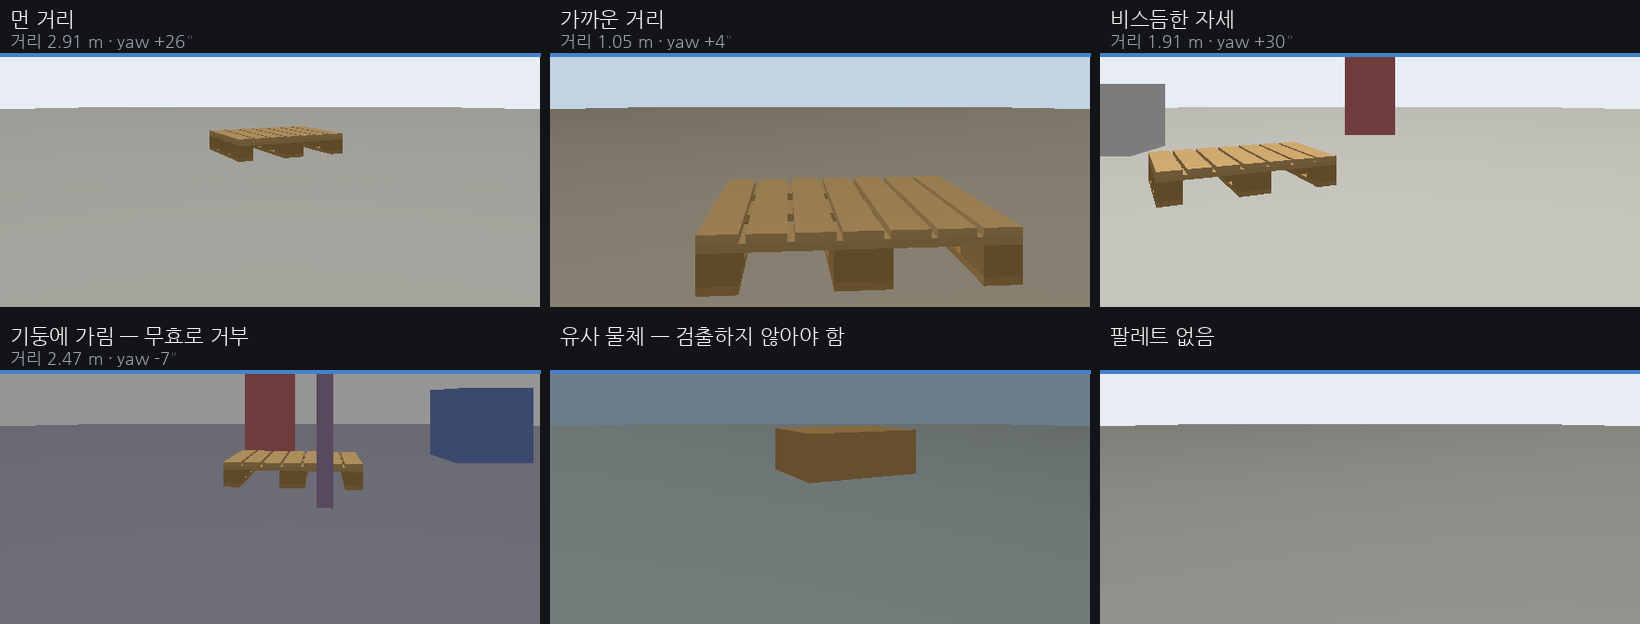
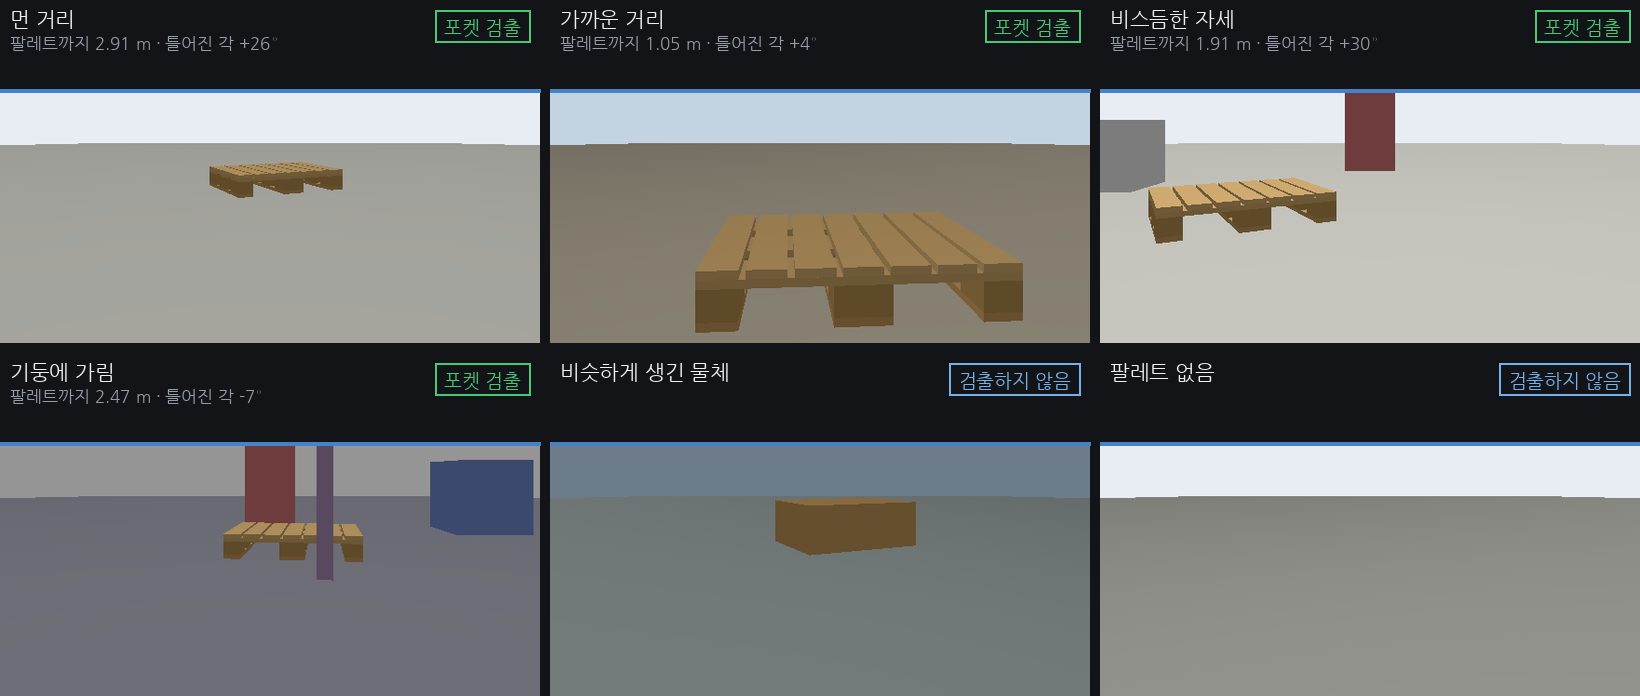
fix: make the diagrams carry their own explanation
Eight problems, all the same kind: a figure that shows a fact without showing
why it follows.

Slides 2 and 12 were pictures of boxes and arrows. They are laid out in the
page now, so the text is selectable, crisp at any projector resolution, and
editable without regenerating an image.

Slide 3 dropped the 0.10 m scan. Mounting a LiDAR below pallet height is not a
choice anyone has, so half the figure argued against an option that does not
exist. In its place is a side view: the scan plane drawn over a pallet that
sits well under it, next to the scan that returns 298 points from walls and
none from the pallet.

Slide 4's five panels had no visible link. Arrows now name what passes between
them, so the chain reads 거리 값 → 팔레트 주변 점만 → 앞면 한 장 → 빈 칸 위치.

Slide 6 replaced the scale drawing, which stated the millimetres without
showing their effect, with the scene's own measured points: the cut-off line,
the points below it greyed out, and the detector's own count of what survives
(64 against a threshold of 100, or 122 against 15).

Slide 7 now names what actually differs between the two runs -- three
thresholds and their before/after values -- so "one works and one does not" has
a cause on the slide.

Slide 9 labelled the conditions but not the outcome; each panel now carries
what the detector decided for that scene.

Slides 5 and 6 lost the spec lines that repeated numbers already in the figure,
which lets the figures grow.
[…]

diff --git a/week-03/index.html b/week-03/index.html
@@ -3,7 +3,7 @@
 <link rel="icon" href="data:,">
 <script src="vendor/react.production.min.js"></script><script src="vendor/react-dom.production.min.js"></script><script src="./support.js"></script></head>
 <body><x-dc><helmet><meta name="viewport" content="width=device-width, initial-scale=1"><title>3주차 개발 진행 보고</title>
-<link rel="stylesheet" href="vendor/uos-slide-template/fonts/fonts.css"><link rel="stylesheet" href="vendor/uos-slide-template/_ds_bundle.css"><link rel="stylesheet" href="vendor/uos-slide-template/styles.css"><link rel="stylesheet" href="deck.css?v=f74bf209c237"><script src="vendor/uos-slide-template/_ds_bundle.js"></script></helmet>
+<link rel="stylesheet" href="vendor/uos-slide-template/fonts/fonts.css"><link rel="stylesheet" href="vendor/uos-slide-template/_ds_bundle.css"><link rel="stylesheet" href="vendor/uos-slide-template/styles.css"><link rel="stylesheet" href="deck.css?v=1bfb95624899"><script src="vendor/uos-slide-template/_ds_bundle.js"></script></helmet>
 <x-import component-from-global-scope="deck-stage" from="./deck-stage.js" width="1280" height="720" hint-size="100%,100%">
 <section data-label="개발 진행 보고" data-screen-label="01" data-duration="20" data-speaker-notes="권장 20초
 
@@ -19,21 +19,22 @@ EPAL 6 캡처와 평가: docs/validation/2026-09-14-epal6-capture-and-evaluation
 
 <section data-label="개발 진행 현황" data-screen-label="02" data-duration="40" data-speaker-notes="권장 40초
 
-과제의 다섯 단계 중 1단계 팔레트 인식과 2단계 로봇 기준 좌표 변환을 구현하였다. 좌표 변환은 카메라에서 찾은 포켓이 로봇의 어느 방향에 얼마나 떨어져 있는지 계산하는 과정이다. 그림의 base는 이 로봇 기준을 뜻한다. 3단계 이후의 실제 차체 동작에는 방향 전환 특성과 정지 거리가 필요하므로 차체 입고 후 착수한다. 입고 전에는 포켓의 위치를 계속 이어서 추정하는 기능을 우선 개발한다. 이번 보고에서는 인식 결과와 측정 과정에서 확인한 센서 설치 조건을 설명한다.
+과제는 팔레트를 찾는 일부터 목적지에 내려놓는 일까지를 다섯 단계로 제시한다. 이번 주까지 1단계 팔레트 인식과 2단계 좌표 계산을 구현하였다. 2단계는 카메라가 찾은 구멍이 로봇 기준으로 어느 방향에 얼마나 떨어져 있는지 계산하는 일이다. 3단계부터는 실제 차체가 얼마나 돌 수 있고 얼마 만에 서는지를 알아야 하므로 차체를 받기 전에는 착수하지 않는다. 차체를 기다리는 동안 먼저 할 수 있는 일을 한 것이다. 따라서 이번 보고는 인식 성능과, 인식을 측정하면서 확인한 장비 조건으로 구성한다.
 
 [Sources]
 과제 원문 7쪽의 다섯 단계: https://docs.google.com/presentation/d/1BjoJLWmwd07ZJujZp4BPZrwBhx5tsnfmBpWdLMy2YrQ/edit
 개발 로드맵: docs/plans/2026-09-11-development-roadmap.md
 [/Sources]" style="background:#fff">
 <x-import component-from-global-scope="UOSSlideDS.ContentSlide" hint-size="100%,100%" title="01  개발 진행 현황"><div class="slide-body">
-<figure class="shot wide"><img class="media" src="assets/16_pipeline_status.png" alt="다섯 단계 진행 상태: 1·2단계 완료, 4단계 다음 주, 3·5단계 차체 대기"><figcaption class="small muted">과제의 다섯 단계와 이번 주 구현 범위</figcaption></figure>
-<div class="takeaway">수행 범위: 1·2단계 인식·위치 계산 구현 · 3단계 이후 실제 차체 동작은 입고 후 착수</div>
+<h2 class="headline">과제가 제시한 다섯 단계 중 앞의 두 단계를 완료</h2>
+<div class="pipeline grow"><article class="pipeline-step done"><h3>① 팔레트 인식</h3><p>RGB-D 카메라로 포크를 넣을 구멍을 찾는다</p><p class="state">구현·평가 완료</p></article><article class="pipeline-step done"><h3>② 로봇 기준 좌표</h3><p>찾은 구멍의 방향과 거리를 로봇 기준으로 계산</p><p class="state">구현 완료</p></article><article class="pipeline-step wait"><h3>③ 접근 경로</h3><p>장애물을 피해 팔레트 앞까지 가는 경로</p><p class="state">차체 입고 후</p></article><article class="pipeline-step now"><h3>④ 추적·삽입</h3><p>가까이서 관측을 이어가며 포크를 넣는다</p><p class="state">다음 주 착수</p></article><article class="pipeline-step wait"><h3>⑤ 이송·하역</h3><p>목적지로 옮기고 내려놓는다</p><p class="state">이후</p></article></div>
+<div class="takeaway">수행 범위: 1·2단계 구현 완료 · 3단계 이후는 차체를 받은 뒤에 착수</div>
 <div class="foot"><span>출처: 과제 설명자료 7쪽</span><span>02 / 12</span></div></div></x-import>
 </section>
 
 <section data-label="2D LiDAR 관측 범위" data-screen-label="03" data-duration="55" data-speaker-notes="권장 55초
 
-먼저 가상 실험 환경인 Gazebo에서 센서 자료를 받는 기능을 확인하였다. 컬러 영상인 RGB와 물체까지의 거리인 깊이, 2D LiDAR 거리 측정값을 로봇 프로그램 연결 도구인 ROS 2로 32초 동안 161회 수신하였다. 기록을 재생한 값도 같았다. 2D LiDAR는 같은 높이에서 빛을 쏘아 주변 거리를 재는 센서이다. 팔레트 높이는 144 밀리미터이고 제작 예정 규격은 90 밀리미터로, 센서가 재는 높이보다 낮다. 그림은 센서 높이만 바꾸어 360도 방향에서 빛이 닿는 지점을 계산한 결과이다. 설치 조건인 0.5 미터 높이에서는 벽·기둥·상자의 반사 지점이 298점이고 팔레트의 반사 지점은 0점이었다. 원인 확인용인 0.1 미터 높이에서는 팔레트의 반사 지점이 53점이었다. 실제로는 벽·장애물을 재기 위해 팔레트보다 높게 설치하므로, 팔레트 인식은 영상과 거리를 함께 제공하는 RGB-D 카메라가 맡는다. LiDAR를 이용한 지도 작성과 로봇 위치 추정은 아직 구현하지 않았다. 바퀴 회전으로 이동 거리와 방향을 계산하는 오도메트리와 실제 주행이 필요하여 차체 입고 후 수행한다.
+먼저 가상 실험 환경인 Gazebo에서 센서 자료를 받는 기능을 확인하였다. 컬러 영상인 RGB와 물체까지의 거리인 깊이, 2D LiDAR 거리 측정값을 로봇 프로그램 연결 도구인 ROS 2로 32초 동안 161회 수신하였다. 기록을 저장한 뒤 다시 재생하여 같은 값이 나오는 것까지 확인하였다. 다만 2D LiDAR로는 팔레트를 찾을 수 없다. 이 센서는 설치한 높이에서 수평으로 한 겹만 훑는다. 왼쪽 그림의 하늘색 면이 그 관측 평면이며, 높이 0.5미터에 설치한 경우이다. 팔레트는 전체 높이가 144밀리미터, 제작 예정인 것은 90밀리미터여서 그 면보다 훨씬 낮게 놓인다. 오른쪽은 같은 조건에서 사방으로 빛을 쏘아 되돌아온 지점을 위에서 본 것이다. 벽과 기둥, 상자에서는 298개가 되돌아오는데 팔레트에서는 한 개도 되돌아오지 않는다. 센서를 팔레트보다 낮게 다는 방법은 고려하지 않는다. 2D LiDAR는 벽과 장애물을 보고 지도를 만들기 위한 센서여서 팔레트보다 높게 설치하는 것이 당연한 조건이고, 팔레트가 관측 평면 아래 놓이는 것은 그 결과이다. 따라서 역할을 나눈다. 2D LiDAR는 지도 작성과 장애물 판단에, 팔레트와 포켓은 RGB-D 카메라에 맡긴다. 다음 장이 그 카메라 인식이다. 지도 작성과 로봇 위치 추정은 바퀴 회전으로 이동 거리를 재는 기능과 실제 주행이 있어야 하므로 차체를 받은 뒤의 단계이다.
 
 [Sources]
 센서 기준선 — 실시간 161회 / 32.0초, 기록 재생 일치: docs/validation/2026-09-10-gazebo-sensor-baseline.md
@@ -41,8 +42,8 @@ SLAM·위치 추정은 M4, 차체 입고 후: docs/plans/2026-09-11-development-
 [/Sources]" style="background:#fff">
 <x-import component-from-global-scope="UOSSlideDS.ContentSlide" hint-size="100%,100%" title="02  2D LiDAR 관측 범위"><div class="slide-body">
 <h2 class="headline">센서 측정 높이 아래에 놓인 팔레트</h2>
-<figure class="shot wide"><img class="media" src="assets/21_lidar_plane.png" alt="실제 설치 조건 0.50 m에서 팔레트 반사 0점, 대조 조건 0.10 m에서 53점"><figcaption class="small muted">설치 높이만 바꾸어 360° 방향의 반사 지점 계산 · MuJoCo</figcaption></figure>
-<p class="small muted">센서 높이 0.10 m는 원인 확인용 · 벽·장애물 측정을 위해 팔레트보다 높게 설치 · 지도 작성·로봇 위치 추정(SLAM)은 미구현</p>
+<figure class="shot wide"><img class="media" src="assets/21_lidar_plane.png" alt="옆에서 본 관측 평면과 그 높이에서 360도 방향의 반사 지점. 팔레트 반사는 0개"><figcaption class="small muted">설치 높이 0.50 m · 360° 방향의 반사 지점 계산 · MuJoCo</figcaption></figure>
+<p class="small muted">2D LiDAR는 벽·장애물을 보기 위한 센서여서 팔레트보다 높게 설치한다 · 지도 작성·로봇 위치 추정(SLAM)은 미구현</p>
 <div class="takeaway">역할 구분: 2D LiDAR는 벽·장애물 거리 측정 · RGB-D 카메라는 영상·거리로 포켓 인식</div>
 <div class="foot"><span>지도 작성·로봇 위치 추정(SLAM) 미구현</span><span>03 / 12</span></div></div></x-import>
 </section>
@@ -71,7 +72,6 @@ SLAM·위치 추정은 M4, 차체 입고 후: docs/plans/2026-09-11-development-
 <x-import component-from-global-scope="UOSSlideDS.ContentSlide" hint-size="100%,100%" title="04  시험용 팔레트 선정"><div class="slide-body">
 <h2 class="headline">적재 한도 10 kg에 맞춘 시험용 팔레트 선정</h2>
 <figure class="shot wide"><img class="media" src="assets/15_pallet_choice.png" alt="포크를 넣은 채로 EPAL 6과 T11 곱하기 0.6을 나란히 비교"><figcaption class="small muted">포크 삽입 상태 · 잠정 차체 모델 (MuJoCo)</figcaption></figure>
-<div class="rule body">국내 유통 규격의 짧은 변 최소 740 mm · EPAL 6 자체 무게 9~10 kg · 포크 길이 420 mm</div>
 <div class="takeaway">선정 결과: T11 각 치수를 0.6배로 축소 · 가로 × 세로 × 높이 660 × 660 × 90 mm 제작 예정</div>
 <div class="foot"><span>출처: ADR 0002</span><span>05 / 12</span></div></div></x-import>
 </section>
@@ -86,8 +86,7 @@ SLAM·위치 추정은 M4, 차체 입고 후: docs/plans/2026-09-11-development-
 [/Sources]" style="background:#fff">
 <x-import component-from-global-scope="UOSSlideDS.ContentSlide" hint-size="100%,100%" title="05  초기 설정의 한계"><div class="slide-body">
 <h2 class="headline">바닥 부근 측정점 제거에 따른 팔레트 인식 실패</h2>
-<figure class="shot wide"><img class="media" src="assets/18_floor_cut.png" alt="고정값 20 mm 절단선이 두 형상의 바닥판을 지우는 단면도"><figcaption class="small muted">팔레트 아래쪽 단면 · 실제 높이 비율 반영 · 적색은 바닥에서 20 mm까지 제거한 구간</figcaption></figure>
-<div class="rule body">바닥에서 20 mm까지 측정점 제거 · 팔레트 바닥판 두께 22 mm·15 mm로 인식에 필요한 부분도 제거</div>
+<figure class="shot wide"><img class="media" src="assets/22_points_lost.png" alt="같은 촬영 장면의 측정점을 옆에서 본 모습. 왼쪽은 바닥판 점이 사라지고 오른쪽은 남는다"><figcaption class="small muted">같은 장면의 측정점을 옆에서 본 모습 · 회색이 버려진 점</figcaption></figure>
 <div class="takeaway">결과: 실물 규격 모델의 시험 자세 125개 중 12개 검출 · 정면에서는 시험한 모든 거리에서 미검출</div>
 <div class="foot"><span>출처: 측정 기록 2026-09-14</span><span>06 / 12</span></div></div></x-import>
 </section>
@@ -103,7 +102,7 @@ SLAM·위치 추정은 M4, 차체 입고 후: docs/plans/2026-09-11-development-
 <x-import component-from-global-scope="UOSSlideDS.ContentSlide" hint-size="100%,100%" title="06  기준값 산출 방식"><div class="slide-body">
 <h2 class="headline">팔레트 치수에 따른 인식 기준값 계산</h2>
 <figure class="shot wide"><video class="media" src="assets/04_frozen_vs_derived.mp4" autoplay loop muted playsinline aria-label="같은 주행을 종전 고정값과 규격 기반 산출값으로 나란히 재생"></video><figcaption class="small muted">측정 리그 · 동일 주행 183 프레임 중 좌측 고정값은 미검출 · 우측 계산값은 150 프레임 검출 · 하단 띠는 영상 한 장씩의 검출 여부</figcaption></figure>
-<div class="rule body">길이 기준은 팔레트 축소 비율 적용 · 측정점 개수 기준은 면적에 맞추어 축소 비율의 제곱 적용</div>
+<div class="rule body">두 설정의 차이 · 바닥 제거 높이 <b>20 mm → 7.3 mm</b> · 면으로 인정할 두께 <b>20 mm → 7.8 mm</b> · 구멍으로 인정할 최소 측정점 <b>100 → 15</b><br>길이 기준은 팔레트가 작아진 비율만큼, 측정점 개수 기준은 넓이에 해당하므로 그 비율의 제곱만큼 줄인 값이다</div>
 <div class="takeaway">효과: 치수 입력으로 표준·축소 규격에 적용 · 축소 T11 시험 자세 60개 중 검출 16개 → 59개</div>
 <div class="foot"><span>화면 생성: 측정 리그 · 물체까지의 거리 계산 도구</span><span>07 / 12</span></div></div></x-import>
 </section>
@@ -178,14 +177,15 @@ M2 합성 탐색 목표: docs/plans/2026-09-11-development-roadmap.md
 
 <section data-label="향후 추진 계획" data-screen-label="12" data-duration="40" data-speaker-notes="권장 40초
 
-다음 주에는 가상 장면으로 포켓 위치 추적을 개발한다. 그림의 M과 H 표시는 개발 단계 이름이며, H는 실제 차체와 센서를 확인하는 단계이다. 영상이 바뀌어도 같은 좌우 포켓을 이어서 찾고, 가림이나 자료 전달 지연으로 새 위치를 확인하지 못하면 포크 삽입을 허용하지 않도록 동작을 검증한다. 카메라 높이는 차체를 실제로 측정한 뒤 확정하고, 그 높이에 맞추어 가상 장면을 다시 만든다. 차체 입고 후에는 시험용 팔레트를 제작하고 실제 센서로 같은 항목을 측정한다. 지도 작성과 주행은 그다음 단계이다. 이번 인식 시험에는 센서 측정값이 불규칙하게 흔들리는 현상을 넣지 않았으므로, 실제 센서에서 결과를 다시 확인해야 한다.
+다음 주에는 차체 없이 할 수 있는 포켓 추적을 진행한다. 카메라가 매 순간 새로 찾는 대신 앞에서 본 위치를 이어서 유지하는 기능이며, 가림이나 지연으로 관측이 끊겼을 때 삽입을 중단하는 동작까지 확인한다. 카메라 높이는 차체를 실측한 뒤 확정하고, 그 높이에 맞추어 장면을 다시 만들어 촬영한다. 차체를 받으면 시험용 팔레트를 제작하고 실제 센서로 같은 항목을 다시 측정한다. 지도 작성과 주행은 그 다음 단계이다. 이번 자료의 수치는 모두 센서의 흔들림을 넣지 않은 조건에서 나온 값이므로 실제 센서로 재확인이 필요하다.
 
 [Sources]
 로드맵 M3 이후와 H 경로: docs/plans/2026-09-11-development-roadmap.md
 [/Sources]" style="background:#fff">
 <x-import component-from-global-scope="UOSSlideDS.ContentSlide" hint-size="100%,100%" title="11  향후 추진 계획"><div class="slide-body">
-<figure class="shot wide"><img class="media" src="assets/19_roadmap.png" alt="M1과 M2는 완료, M3 진행, H0부터 H2는 차체 입고 대기"><figcaption class="small muted">단계별 개발 일정과 현재 진행 상태</figcaption></figure>
-<div class="takeaway">검증 조건: 센서 측정값의 흔들림을 넣지 않은 인식 시험 · 실제 센서로 재측정 필요</div>
+<h2 class="headline">다음 주는 포켓 추적, 그 다음은 차체 실측</h2>
+<div class="roadmap grow"><article class="done"><h3>M1 · M2</h3><p>개발 환경 정비와 포켓 인식</p><p class="state">완료 · 가상 장면 기준</p></article><article class="now"><h3>M3</h3><p>포켓 추적 — 가까이서 관측 이어가기</p><p class="state">다음 주</p></article><article class="wait"><h3>차체 입고</h3><p>실측 · 팔레트 제작 · 실제 센서로 재측정</p><p class="state">대기</p></article><article class="wait"><h3>M4 ~ M6</h3><p>지도 작성 · 주행 · 삽입 · 이송</p><p class="state">이후</p></article></div>
+<div class="takeaway">유의 사항: 이번 수치는 센서 흔들림을 넣지 않은 조건의 값 · 실제 센서로 다시 측정한다</div>
 <div class="foot"><span>출처: 개발 로드맵</span><span>12 / 12</span></div></div></x-import>
 </section>
 </x-import></x-dc></body></html>

diff --git a/week-03/deck.css b/week-03/deck.css
@@ -102,3 +102,16 @@ a:focus-visible { outline:3px solid var(--uos-blue); outline-offset:4px; }
   flex:0 1 auto; display:block; object-fit:contain; border:1px solid var(--uos-rule); }
 .shot figcaption { flex-shrink:0; text-align:center; }
 .split > .shot { height:100%; }
+
+/* Week 3: the progress bar and the roadmap are laid out in the page rather
+   than baked into an image, so they stay crisp and stay editable. */
+.pipeline.grow, .roadmap.grow { align-content:center; }
+.pipeline-step .state, .roadmap .state { font-size:20.5px; margin-top:10px; font-weight:700; }
+.pipeline-step.done, .roadmap article.done { border-top-color:var(--uos-blue); }
+.pipeline-step.now, .roadmap article.now { border-top-color:#E0A100; }
+.pipeline-step.wait, .roadmap article.wait { border-top-color:var(--uos-rule); }
+.pipeline-step.done .state, .roadmap article.done .state { color:var(--uos-blue); }
+.pipeline-step.now .state, .roadmap article.now .state { color:#A97A00; }
+.pipeline-step.wait, .roadmap article.wait { color:var(--uos-ink-muted); }
+.roadmap article h3 { margin:12px 0 10px; }
+.roadmap article p { font-size:21px; }

diff --git a/week-03/build_deck.py b/week-03/build_deck.py
@@ -44,21 +44,22 @@ add('개발 진행 보고', '3주차\n개발 진행 보고', 20, '',
     [(M2, 'M2 포켓 인식 검증 기록'), (E6, 'EPAL 6 캡처와 평가')], '측정 결과 보고')
 
 # ----------------------------------------------------------------- 2
-add('개발 진행 현황', '01  개발 진행 현황', 40, f"""
-{figure('16_pipeline_status.png', '다섯 단계 진행 상태: 1·2단계 완료, 4단계 다음 주, 3·5단계 차체 대기', '과제의 다섯 단계와 이번 주 구현 범위')}
-<div class="takeaway">수행 범위: 1·2단계 인식·위치 계산 구현 · 3단계 이후 실제 차체 동작은 입고 후 착수</div>
+add('개발 진행 현황', '01  개발 진행 현황', 40, """
+<h2 class="headline">과제가 제시한 다섯 단계 중 앞의 두 단계를 완료</h2>
+<div class="pipeline grow"><article class="pipeline-step done"><h3>① 팔레트 인식</h3><p>RGB-D 카메라로 포크를 넣을 구멍을 찾는다</p><p class="state">구현·평가 완료</p></article><article class="pipeline-step done"><h3>② 로봇 기준 좌표</h3><p>찾은 구멍의 방향과 거리를 로봇 기준으로 계산</p><p class="state">구현 완료</p></article><article class="pipeline-step wait"><h3>③ 접근 경로</h3><p>장애물을 피해 팔레트 앞까지 가는 경로</p><p class="state">차체 입고 후</p></article><article class="pipeline-step now"><h3>④ 추적·삽입</h3><p>가까이서 관측을 이어가며 포크를 넣는다</p><p class="state">다음 주 착수</p></article><article class="pipeline-step wait"><h3>⑤ 이송·하역</h3><p>목적지로 옮기고 내려놓는다</p><p class="state">이후</p></article></div>
+<div class="takeaway">수행 범위: 1·2단계 구현 완료 · 3단계 이후는 차체를 받은 뒤에 착수</div>
 """,
-    """과제의 다섯 단계 중 1단계 팔레트 인식과 2단계 로봇 기준 좌표 변환을 구현하였다. 좌표 변환은 카메라에서 찾은 포켓이 로봇의 어느 방향에 얼마나 떨어져 있는지 계산하는 과정이다. 그림의 base는 이 로봇 기준을 뜻한다. 3단계 이후의 실제 차체 동작에는 방향 전환 특성과 정지 거리가 필요하므로 차체 입고 후 착수한다. 입고 전에는 포켓의 위치를 계속 이어서 추정하는 기능을 우선 개발한다. 이번 보고에서는 인식 결과와 측정 과정에서 확인한 센서 설치 조건을 설명한다.""",
+    """과제는 팔레트를 찾는 일부터 목적지에 내려놓는 일까지를 다섯 단계로 제시한다. 이번 주까지 1단계 팔레트 인식과 2단계 좌표 계산을 구현하였다. 2단계는 카메라가 찾은 구멍이 로봇 기준으로 어느 방향에 얼마나 떨어져 있는지 계산하는 일이다. 3단계부터는 실제 차체가 얼마나 돌 수 있고 얼마 만에 서는지를 알아야 하므로 차체를 받기 전에는 착수하지 않는다. 차체를 기다리는 동안 먼저 할 수 있는 일을 한 것이다. 따라서 이번 보고는 인식 성능과, 인식을 측정하면서 확인한 장비 조건으로 구성한다.""",
     [(BRIEF, '과제 원문 7쪽의 다섯 단계'), (MAP, '개발 로드맵')], '출처: 과제 설명자료 7쪽')
 
 # ----------------------------------------------------------------- 3
 add('2D LiDAR 관측 범위', '02  2D LiDAR 관측 범위', 55, f"""
 <h2 class="headline">센서 측정 높이 아래에 놓인 팔레트</h2>
-{figure('21_lidar_plane.png', '실제 설치 조건 0.50 m에서 팔레트 반사 0점, 대조 조건 0.10 m에서 53점', '설치 높이만 바꾸어 360° 방향의 반사 지점 계산 · MuJoCo')}
-<p class="small muted">센서 높이 0.10 m는 원인 확인용 · 벽·장애물 측정을 위해 팔레트보다 높게 설치 · 지도 작성·로봇 위치 추정(SLAM)은 미구현</p>
+{figure('21_lidar_plane.png', '옆에서 본 관측 평면과 그 높이에서 360도 방향의 반사 지점. 팔레트 반사는 0개', '설치 높이 0.50 m · 360° 방향의 반사 지점 계산 · MuJoCo')}
+<p class="small muted">2D LiDAR는 벽·장애물을 보기 위한 센서여서 팔레트보다 높게 설치한다 · 지도 작성·로봇 위치 추정(SLAM)은 미구현</p>
 <div class="takeaway">역할 구분: 2D LiDAR는 벽·장애물 거리 측정 · RGB-D 카메라는 영상·거리로 포켓 인식</div>
 """,
-    """먼저 가상 실험 환경인 Gazebo에서 센서 자료를 받는 기능을 확인하였다. 컬러 영상인 RGB와 물체까지의 거리인 깊이, 2D LiDAR 거리 측정값을 로봇 프로그램 연결 도구인 ROS 2로 32초 동안 161회 수신하였다. 기록을 재생한 값도 같았다. 2D LiDAR는 같은 높이에서 빛을 쏘아 주변 거리를 재는 센서이다. 팔레트 높이는 144 밀리미터이고 제작 예정 규격은 90 밀리미터로, 센서가 재는 높이보다 낮다. 그림은 센서 높이만 바꾸어 360도 방향에서 빛이 닿는 지점을 계산한 결과이다. 설치 조건인 0.5 미터 높이에서는 벽·기둥·상자의 반사 지점이 298점이고 팔레트의 반사 지점은 0점이었다. 원인 확인용인 0.1 미터 높이에서는 팔레트의 반사 지점이 53점이었다. 실제로는 벽·장애물을 재기 위해 팔레트보다 높게 설치하므로, 팔레트 인식은 영상과 거리를 함께 제공하는 RGB-D 카메라가 맡는다. LiDAR를 이용한 지도 작성과 로봇 위치 추정은 아직 구현하지 않았다. 바퀴 회전으로 이동 거리와 방향을 계산하는 오도메트리와 실제 주행이 필요하여 차체 입고 후 수행한다.""",
+    """먼저 가상 실험 환경인 Gazebo에서 센서 자료를 받는 기능을 확인하였다. 컬러 영상인 RGB와 물체까지의 거리인 깊이, 2D LiDAR 거리 측정값을 로봇 프로그램 연결 도구인 ROS 2로 32초 동안 161회 수신하였다. 기록을 저장한 뒤 다시 재생하여 같은 값이 나오는 것까지 확인하였다. 다만 2D LiDAR로는 팔레트를 찾을 수 없다. 이 센서는 설치한 높이에서 수평으로 한 겹만 훑는다. 왼쪽 그림의 하늘색 면이 그 관측 평면이며, 높이 0.5미터에 설치한 경우이다. 팔레트는 전체 높이가 144밀리미터, 제작 예정인 것은 90밀리미터여서 그 면보다 훨씬 낮게 놓인다. 오른쪽은 같은 조건에서 사방으로 빛을 쏘아 되돌아온 지점을 위에서 본 것이다. 벽과 기둥, 상자에서는 298개가 되돌아오는데 팔레트에서는 한 개도 되돌아오지 않는다. 센서를 팔레트보다 낮게 다는 방법은 고려하지 않는다. 2D LiDAR는 벽과 장애물을 보고 지도를 만들기 위한 센서여서 팔레트보다 높게 설치하는 것이 당연한 조건이고, 팔레트가 관측 평면 아래 놓이는 것은 그 결과이다. 따라서 역할을 나눈다. 2D LiDAR는 지도 작성과 장애물 판단에, 팔레트와 포켓은 RGB-D 카메라에 맡긴다. 다음 장이 그 카메라 인식이다. 지도 작성과 로봇 위치 추정은 바퀴 회전으로 이동 거리를 재는 기능과 실제 주행이 있어야 하므로 차체를 받은 뒤의 단계이다.""",
     [(SB, '센서 기준선 — 실시간 161회 / 32.0초, 기록 재생 일치'),
      (MAP, 'SLAM·위치 추정은 M4, 차체 입고 후')], '지도 작성·로봇 위치 추정(SLAM) 미구현')
 
@@ -74,7 +75,6 @@ add('포켓 인식 처리 과정', '03  포켓 인식 처리 과정', 55, f"""
 add('시험용 팔레트 선정', '04  시험용 팔레트 선정', 50, f"""
 <h2 class="headline">적재 한도 10 kg에 맞춘 시험용 팔레트 선정</h2>
 {figure('15_pallet_choice.png', '포크를 넣은 채로 EPAL 6과 T11 곱하기 0.6을 나란히 비교', '포크 삽입 상태 · 잠정 차체 모델 (MuJoCo)')}
-<div class="rule body">국내 유통 규격의 짧은 변 최소 740 mm · EPAL 6 자체 무게 9~10 kg · 포크 길이 420 mm</div>
 <div class="takeaway">선정 결과: T11 각 치수를 0.6배로 축소 · 가로 × 세로 × 높이 660 × 660 × 90 mm 제작 예정</div>
 """,
     """시험에 사용할 팔레트 규격을 선정하였다. 조사한 국내 표준 대여 품목에는 한 변이 1000 밀리미터 미만인 규격이 없었고, 시장 전체에서도 짧은 변의 최소 길이는 740 밀리미터였다. 차체 카탈로그의 포크 적재 한도는 10 킬로그램이다. 유럽식 하프 팔레트인 EPAL 6은 자체 무게가 9에서 10 킬로그램이어서 화물을 더 실을 여유가 없다. 포크 길이도 420 밀리미터로 표준 팔레트의 절반까지 들어가지 못한다. 따라서 국내 표준 T11의 각 치수를 0.6배로 줄여, 가로·세로·높이가 660 × 660 × 90 밀리미터인 시험용 팔레트를 제작하기로 하였다. 크기만 줄이고 모양의 비율은 유지하므로, 인식 프로그램은 표준 크기와 축소 크기에서 모두 동작해야 한다.""",
@@ -83,8 +83,7 @@ add('시험용 팔레트 선정', '04  시험용 팔레트 선정', 50, f"""
 # ----------------------------------------------------------------- 6
 add('초기 설정의 한계', '05  초기 설정의 한계', 55, f"""
 <h2 class="headline">바닥 부근 측정점 제거에 따른 팔레트 인식 실패</h2>
-{figure('18_floor_cut.png', '고정값 20 mm 절단선이 두 형상의 바닥판을 지우는 단면도', '팔레트 아래쪽 단면 · 실제 높이 비율 반영 · 적색은 바닥에서 20 mm까지 제거한 구간')}
-<div class="rule body">바닥에서 20 mm까지 측정점 제거 · 팔레트 바닥판 두께 22 mm·15 mm로 인식에 필요한 부분도 제거</div>
+{figure('22_points_lost.png', '같은 촬영 장면의 측정점을 옆에서 본 모습. 왼쪽은 바닥판 점이 사라지고 오른쪽은 남는다', '같은 장면의 측정점을 옆에서 본 모습 · 회색이 버려진 점')}
 <div class="takeaway">결과: 실물 규격 모델의 시험 자세 125개 중 12개 검출 · 정면에서는 시험한 모든 거리에서 미검출</div>
 """,
     """인식 프로그램은 바닥 가까이에서 얻은 측정점을 불필요한 정보로 보고 제외하였다. 제거 범위는 바닥에서 20 밀리미터까지로 고정되어 있었다. 초기 장면의 팔레트 바닥판은 두께가 50 밀리미터여서 문제가 없었으나, 유럽 규격의 바닥판은 22 밀리미터이고 제작 예정인 축소 T11은 15 밀리미터이다. 그림의 적색 구간처럼 바닥판의 전부 또는 일부를 함께 제거하면서 인식에 필요한 정보가 사라졌다. 그 결과 실물 규격 모델의 위치와 방향을 바꾼 시험 자세 125개 중 12개에서만 포켓을 찾았다. 정면에서는 시험한 모든 거리에서 찾지 못하였다. 점들을 같은 면으로 인정할 두께 범위와 구조물을 판별할 최소 측정점 개수에도 고정된 기준을 사용하고 있었다. 그림의 초록색 유도값은 팔레트 치수에서 계산한 새 기준이며, 다음 장에서 설명한다.""",
@@ -95,7 +94,7 @@ add('초기 설정의 한계', '05  초기 설정의 한계', 55, f"""
 add('기준값 산출 방식', '06  기준값 산출 방식', 65, f"""
 <h2 class="headline">팔레트 치수에 따른 인식 기준값 계산</h2>
 {figure('04_frozen_vs_derived.mp4', '같은 주행을 종전 고정값과 규격 기반 산출값으로 나란히 재생', '측정 리그 · 동일 주행 183 프레임 중 좌측 고정값은 미검출 · 우측 계산값은 150 프레임 검출 · 하단 띠는 영상 한 장씩의 검출 여부')}
-<div class="rule body">길이 기준은 팔레트 축소 비율 적용 · 측정점 개수 기준은 면적에 맞추어 축소 비율의 제곱 적용</div>
+<div class="rule body">두 설정의 차이 · 바닥 제거 높이 <b>20 mm → 7.3 mm</b> · 면으로 인정할 두께 <b>20 mm → 7.8 mm</b> · 구멍으로 인정할 최소 측정점 <b>100 → 15</b><br>길이 기준은 팔레트가 작아진 비율만큼, 측정점 개수 기준은 넓이에 해당하므로 그 비율의 제곱만큼 줄인 값이다</div>
 <div class="takeaway">효과: 치수 입력으로 표준·축소 규격에 적용 · 축소 T11 시험 자세 60개 중 검출 16개 → 59개</div>
 """,
     """앞 장의 고정된 기준값을 팔레트 치수에서 계산하도록 변경하였다. 길이 기준은 팔레트를 줄인 비율만큼 줄인다. 측정점 개수 기준은 보이는 면적에 맞추므로, 길이를 줄인 비율을 두 번 곱하여 적용한다. 바닥 부근의 측정점을 제거하는 높이는 바닥판 두께의 3분의 1로 정하였다. 화면은 물체까지의 거리를 계산하는 도구인 측정 리그로 만든 동일 주행 영상이다. 영상 한 장을 프레임이라고 하며, 동일 주행 183 프레임에 두 설정을 적용하였다. 좌측의 기존 고정값은 모든 프레임에서 포켓을 찾지 못하였고, 우측의 계산값은 150 프레임에서 두 포켓을 찾았다. 하단 띠는 각 프레임의 검출 여부를 나타낸다. 팔레트 규격이 바뀌면 코드를 고치는 대신 새 치수를 입력할 수 있다. 제작 예정인 축소 T11 모델도 시험 자세 60개 중 검출한 자세가 16개에서 59개로 늘었다. 제작 후에는 실제로 잰 치수를 입력하여 기준값을 다시 계산한다.""",
@@ -150,11 +149,12 @@ add('삽입 구간 관측 한계', '10  삽입 구간 관측 한계', 60, f"""
      (PLAN, '접근 방식별 검출 구간')], '화면 생성: 측정 리그 · MuJoCo')
 
 # ----------------------------------------------------------------- 12
-add('향후 추진 계획', '11  향후 추진 계획', 40, f"""
-{figure('19_roadmap.png', 'M1과 M2는 완료, M3 진행, H0부터 H2는 차체 입고 대기', '단계별 개발 일정과 현재 진행 상태')}
-<div class="takeaway">검증 조건: 센서 측정값의 흔들림을 넣지 않은 인식 시험 · 실제 센서로 재측정 필요</div>
+add('향후 추진 계획', '11  향후 추진 계획', 40, """
+<h2 class="headline">다음 주는 포켓 추적, 그 다음은 차체 실측</h2>
+<div class="roadmap grow"><article class="done"><h3>M1 · M2</h3><p>개발 환경 정비와 포켓 인식</p><p class="state">완료 · 가상 장면 기준</p></article><article class="now"><h3>M3</h3><p>포켓 추적 — 가까이서 관측 이어가기</p><p class="state">다음 주</p></article><article class="wait"><h3>차체 입고</h3><p>실측 · 팔레트 제작 · 실제 센서로 재측정</p><p class="state">대기</p></article><article class="wait"><h3>M4 ~ M6</h3><p>지도 작성 · 주행 · 삽입 · 이송</p><p class="state">이후</p></article></div>
+<div class="takeaway">유의 사항: 이번 수치는 센서 흔들림을 넣지 않은 조건의 값 · 실제 센서로 다시 측정한다</div>
 """,
-    """다음 주에는 가상 장면으로 포켓 위치 추적을 개발한다. 그림의 M과 H 표시는 개발 단계 이름이며, H는 실제 차체와 센서를 확인하는 단계이다. 영상이 바뀌어도 같은 좌우 포켓을 이어서 찾고, 가림이나 자료 전달 지연으로 새 위치를 확인하지 못하면 포크 삽입을 허용하지 않도록 동작을 검증한다. 카메라 높이는 차체를 실제로 측정한 뒤 확정하고, 그 높이에 맞추어 가상 장면을 다시 만든다. 차체 입고 후에는 시험용 팔레트를 제작하고 실제 센서로 같은 항목을 측정한다. 지도 작성과 주행은 그다음 단계이다. 이번 인식 시험에는 센서 측정값이 불규칙하게 흔들리는 현상을 넣지 않았으므로, 실제 센서에서 결과를 다시 확인해야 한다.""",
+    """다음 주에는 차체 없이 할 수 있는 포켓 추적을 진행한다. 카메라가 매 순간 새로 찾는 대신 앞에서 본 위치를 이어서 유지하는 기능이며, 가림이나 지연으로 관측이 끊겼을 때 삽입을 중단하는 동작까지 확인한다. 카메라 높이는 차체를 실측한 뒤 확정하고, 그 높이에 맞추어 장면을 다시 만들어 촬영한다. 차체를 받으면 시험용 팔레트를 제작하고 실제 센서로 같은 항목을 다시 측정한다. 지도 작성과 주행은 그 다음 단계이다. 이번 자료의 수치는 모두 센서의 흔들림을 넣지 않은 조건에서 나온 값이므로 실제 센서로 재확인이 필요하다.""",
     [(MAP, '로드맵 M3 이후와 H 경로')], '출처: 개발 로드맵')
 
 

diff --git a/week-03/SCRIPT.md b/week-03/SCRIPT.md
@@ -15,7 +15,7 @@ EPAL 6 캡처와 평가: docs/validation/2026-09-14-epal6-capture-and-evaluation
 
 ## 2쪽 · 개발 진행 현황 (00:20–01:00, 40초)
 
-과제의 다섯 단계 중 1단계 팔레트 인식과 2단계 로봇 기준 좌표 변환을 구현하였다. 좌표 변환은 카메라에서 찾은 포켓이 로봇의 어느 방향에 얼마나 떨어져 있는지 계산하는 과정이다. 그림의 base는 이 로봇 기준을 뜻한다. 3단계 이후의 실제 차체 동작에는 방향 전환 특성과 정지 거리가 필요하므로 차체 입고 후 착수한다. 입고 전에는 포켓의 위치를 계속 이어서 추정하는 기능을 우선 개발한다. 이번 보고에서는 인식 결과와 측정 과정에서 확인한 센서 설치 조건을 설명한다.
+과제는 팔레트를 찾는 일부터 목적지에 내려놓는 일까지를 다섯 단계로 제시한다. 이번 주까지 1단계 팔레트 인식과 2단계 좌표 계산을 구현하였다. 2단계는 카메라가 찾은 구멍이 로봇 기준으로 어느 방향에 얼마나 떨어져 있는지 계산하는 일이다. 3단계부터는 실제 차체가 얼마나 돌 수 있고 얼마 만에 서는지를 알아야 하므로 차체를 받기 전에는 착수하지 않는다. 차체를 기다리는 동안 먼저 할 수 있는 일을 한 것이다. 따라서 이번 보고는 인식 성능과, 인식을 측정하면서 확인한 장비 조건으로 구성한다.
 
 [Sources]
 과제 원문 7쪽의 다섯 단계: https://docs.google.com/presentation/d/1BjoJLWmwd07ZJujZp4BPZrwBhx5tsnfmBpWdLMy2YrQ/edit
@@ -24,7 +24,7 @@ EPAL 6 캡처와 평가: docs/validation/2026-09-14-epal6-capture-and-evaluation
 
 ## 3쪽 · 2D LiDAR 관측 범위 (01:00–01:55, 55초)
 
-먼저 가상 실험 환경인 Gazebo에서 센서 자료를 받는 기능을 확인하였다. 컬러 영상인 RGB와 물체까지의 거리인 깊이, 2D LiDAR 거리 측정값을 로봇 프로그램 연결 도구인 ROS 2로 32초 동안 161회 수신하였다. 기록을 재생한 값도 같았다. 2D LiDAR는 같은 높이에서 빛을 쏘아 주변 거리를 재는 센서이다. 팔레트 높이는 144 밀리미터이고 제작 예정 규격은 90 밀리미터로, 센서가 재는 높이보다 낮다. 그림은 센서 높이만 바꾸어 360도 방향에서 빛이 닿는 지점을 계산한 결과이다. 설치 조건인 0.5 미터 높이에서는 벽·기둥·상자의 반사 지점이 298점이고 팔레트의 반사 지점은 0점이었다. 원인 확인용인 0.1 미터 높이에서는 팔레트의 반사 지점이 53점이었다. 실제로는 벽·장애물을 재기 위해 팔레트보다 높게 설치하므로, 팔레트 인식은 영상과 거리를 함께 제공하는 RGB-D 카메라가 맡는다. LiDAR를 이용한 지도 작성과 로봇 위치 추정은 아직 구현하지 않았다. 바퀴 회전으로 이동 거리와 방향을 계산하는 오도메트리와 실제 주행이 필요하여 차체 입고 후 수행한다.
+먼저 가상 실험 환경인 Gazebo에서 센서 자료를 받는 기능을 확인하였다. 컬러 영상인 RGB와 물체까지의 거리인 깊이, 2D LiDAR 거리 측정값을 로봇 프로그램 연결 도구인 ROS 2로 32초 동안 161회 수신하였다. 기록을 저장한 뒤 다시 재생하여 같은 값이 나오는 것까지 확인하였다. 다만 2D LiDAR로는 팔레트를 찾을 수 없다. 이 센서는 설치한 높이에서 수평으로 한 겹만 훑는다. 왼쪽 그림의 하늘색 면이 그 관측 평면이며, 높이 0.5미터에 설치한 경우이다. 팔레트는 전체 높이가 144밀리미터, 제작 예정인 것은 90밀리미터여서 그 면보다 훨씬 낮게 놓인다. 오른쪽은 같은 조건에서 사방으로 빛을 쏘아 되돌아온 지점을 위에서 본 것이다. 벽과 기둥, 상자에서는 298개가 되돌아오는데 팔레트에서는 한 개도 되돌아오지 않는다. 센서를 팔레트보다 낮게 다는 방법은 고려하지 않는다. 2D LiDAR는 벽과 장애물을 보고 지도를 만들기 위한 센서여서 팔레트보다 높게 설치하는 것이 당연한 조건이고, 팔레트가 관측 평면 아래 놓이는 것은 그 결과이다. 따라서 역할을 나눈다. 2D LiDAR는 지도 작성과 장애물 판단에, 팔레트와 포켓은 RGB-D 카메라에 맡긴다. 다음 장이 그 카메라 인식이다. 지도 작성과 로봇 위치 추정은 바퀴 회전으로 이동 거리를 재는 기능과 실제 주행이 있어야 하므로 차체를 받은 뒤의 단계이다.
 
 [Sources]
 센서 기준선 — 실시간 161회 / 32.0초, 기록 재생 일치: docs/validation/2026-09-10-gazebo-sensor-baseline.md
@@ -104,7 +104,7 @@ M2 합성 탐색 목표: docs/plans/2026-09-11-development-roadmap.md
 
 ## 12쪽 · 향후 추진 계획 (09:40–10:20, 40초)
 
-다음 주에는 가상 장면으로 포켓 위치 추적을 개발한다. 그림의 M과 H 표시는 개발 단계 이름이며, H는 실제 차체와 센서를 확인하는 단계이다. 영상이 바뀌어도 같은 좌우 포켓을 이어서 찾고, 가림이나 자료 전달 지연으로 새 위치를 확인하지 못하면 포크 삽입을 허용하지 않도록 동작을 검증한다. 카메라 높이는 차체를 실제로 측정한 뒤 확정하고, 그 높이에 맞추어 가상 장면을 다시 만든다. 차체 입고 후에는 시험용 팔레트를 제작하고 실제 센서로 같은 항목을 측정한다. 지도 작성과 주행은 그다음 단계이다. 이번 인식 시험에는 센서 측정값이 불규칙하게 흔들리는 현상을 넣지 않았으므로, 실제 센서에서 결과를 다시 확인해야 한다.
+다음 주에는 차체 없이 할 수 있는 포켓 추적을 진행한다. 카메라가 매 순간 새로 찾는 대신 앞에서 본 위치를 이어서 유지하는 기능이며, 가림이나 지연으로 관측이 끊겼을 때 삽입을 중단하는 동작까지 확인한다. 카메라 높이는 차체를 실측한 뒤 확정하고, 그 높이에 맞추어 장면을 다시 만들어 촬영한다. 차체를 받으면 시험용 팔레트를 제작하고 실제 센서로 같은 항목을 다시 측정한다. 지도 작성과 주행은 그 다음 단계이다. 이번 자료의 수치는 모두 센서의 흔들림을 넣지 않은 조건에서 나온 값이므로 실제 센서로 재확인이 필요하다.
 
 [Sources]
 로드맵 M3 이후와 H 경로: docs/plans/2026-09-11-development-roadmap.md
